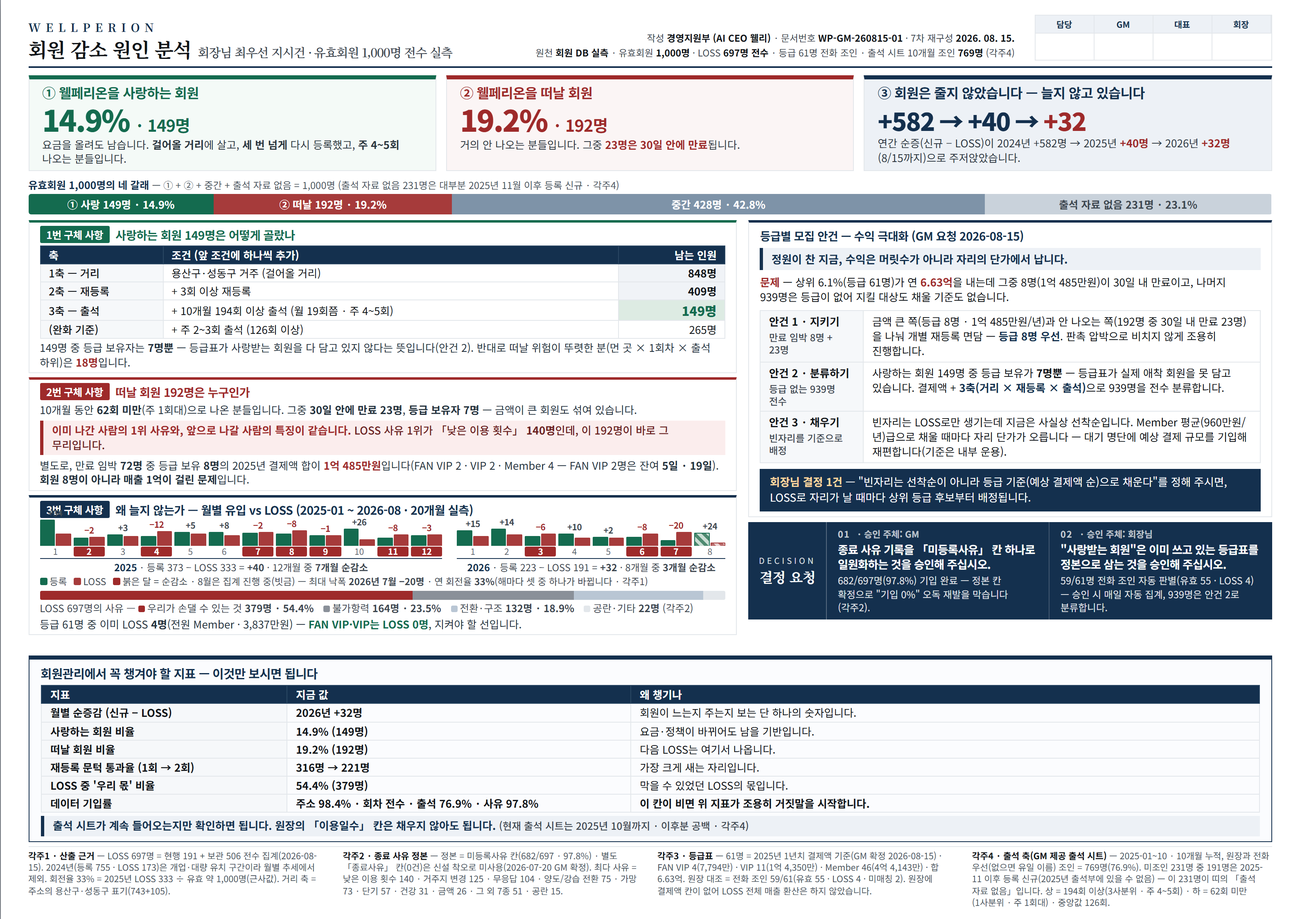
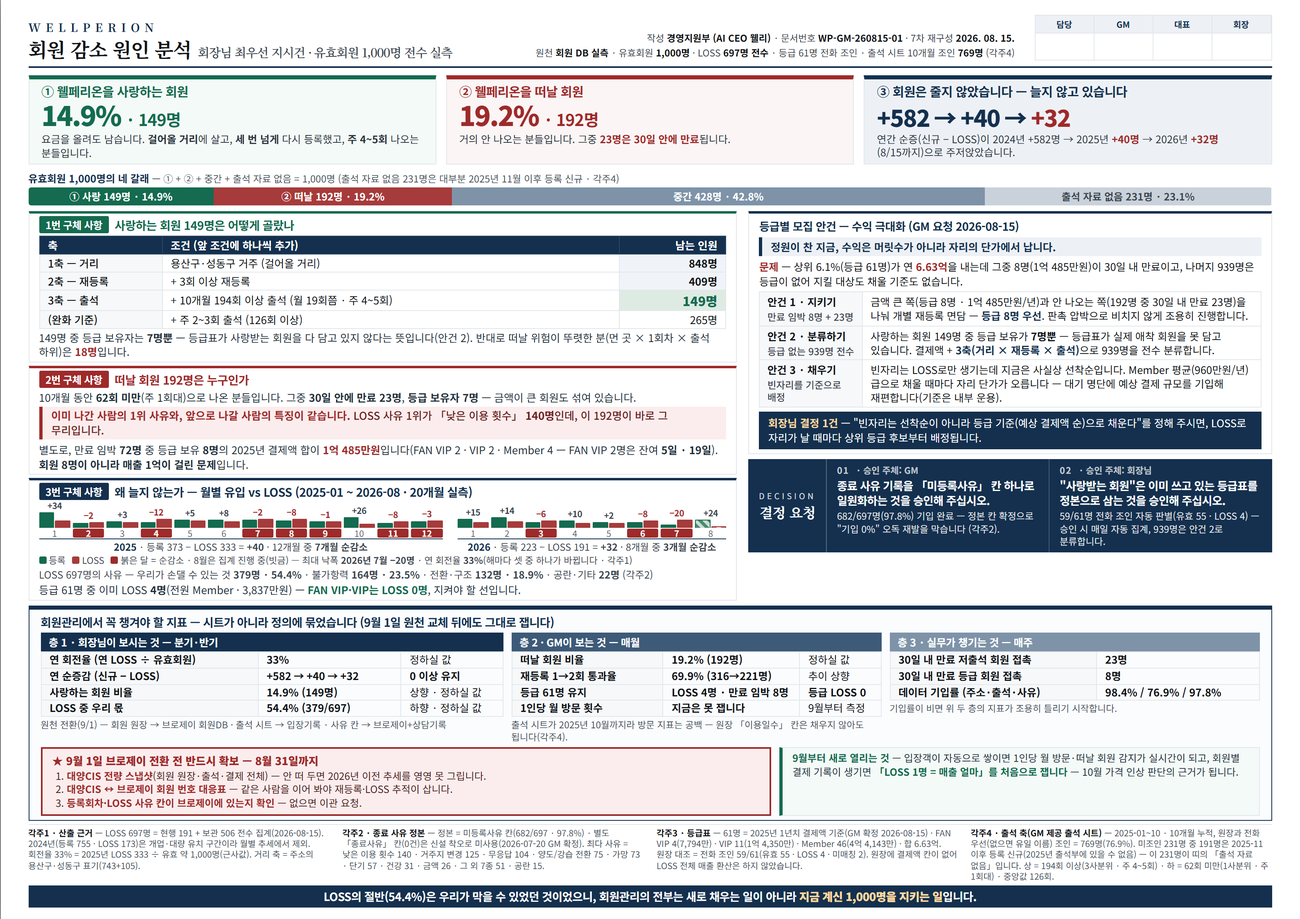
feat(cpo): A3 7차 보강 — 챙길 지표 3층 체계(회장/GM/실무) + 9월 브로제이 전환 대비 확보 3건 (GM 지시 2026-08-15 · 배644)

diff --git a/3. 웰페리온 가이드/reports/260815_회원감소원인분석_A3.html b/3. 웰페리온 가이드/reports/260815_회원감소원인분석_A3.html
@@ -50,21 +50,21 @@
 
   /* 【상단】 핵심 3줄 — 문서에서 가장 크게 */
   .hero{ display:flex; gap:12px; margin-top:9px; }
-  .hc{ flex:1; border:1.5px solid var(--line); border-top:5px solid var(--navy); padding:6px 16px 5px; }
+  .hc{ flex:1; border:1.5px solid var(--line); border-top:5px solid var(--navy); padding:5px 15px 4px; }
   .hc.love{ border-top-color:var(--good); background:#F4FAF7; }
   .hc.leave{ border-top-color:var(--bad); background:#FBF5F5; }
   .hc.flat{ border-top-color:var(--navy); background:var(--navy-bg); }
-  .hc .lb{ font-size:16.5px; font-weight:700; letter-spacing:-.4px; line-height:1.25; }
+  .hc .lb{ font-size:15.5px; font-weight:700; letter-spacing:-.4px; line-height:1.25; }
   .hc.love .lb{ color:var(--good); }
   .hc.leave .lb{ color:var(--bad); }
   .hc.flat .lb{ color:var(--navy); }
-  .hc .big{ font-size:36px; font-weight:900; letter-spacing:-1.5px; line-height:1.08; margin:2px 0 3px;
+  .hc .big{ font-size:33px; font-weight:900; letter-spacing:-1.5px; line-height:1.08; margin:2px 0 3px;
     font-variant-numeric:tabular-nums; }
   .hc.love .big{ color:var(--good); }
   .hc.leave .big{ color:var(--bad); }
-  .hc.flat .big{ color:var(--navy); font-size:30px; letter-spacing:-1px; padding-top:5px; }
+  .hc.flat .big{ color:var(--navy); font-size:28px; letter-spacing:-1px; padding-top:5px; }
   .hc .big small{ font-size:20px; font-weight:700; letter-spacing:-.5px; }
-  .hc .ex{ font-size:13px; line-height:1.38; color:#2A343D; }
+  .hc .ex{ font-size:12.6px; line-height:1.34; color:#2A343D; }
   .hc .ex b{ font-weight:700; }
   .hc.leave .ex b{ color:var(--bad); }
   .hc.flat .ex b{ color:var(--bad); }
@@ -73,9 +73,9 @@
   .band{ margin-top:7px; }
   .band .tt{ font-size:12.5px; font-weight:700; color:var(--navy); margin-bottom:2px; }
   .band .tt span{ font-weight:400; color:#48525B; font-size:11.8px; }
-  .strip{ display:flex; height:25px; border-radius:3px; overflow:hidden; }
+  .strip{ display:flex; height:22px; border-radius:3px; overflow:hidden; }
   .strip i{ display:flex; align-items:center; justify-content:center; height:100%;
-    font-style:normal; font-size:12.8px; font-weight:700; color:#fff; white-space:nowrap; }
+    font-style:normal; font-size:12.3px; font-weight:700; color:#fff; white-space:nowrap; }
   .strip i.s1{ background:var(--good); }
   .strip i.s2{ background:#A63B3B; }
   .strip i.s3{ background:#7E93A8; }
@@ -83,11 +83,11 @@
 
   /* 【중단】 좌우 2단 */
   .body2{ margin-top:7px; display:flex; gap:14px; flex:1; min-height:0; }
-  .colL{ width:57%; flex:none; display:flex; flex-direction:column; gap:5px; }
+  .colL{ width:57%; flex:none; display:flex; flex-direction:column; gap:4px; }
   .colR{ flex:1; display:flex; flex-direction:column; gap:6px; min-width:0; }
 
   /* 구체 사항 박스 */
-  .sec{ border:1px solid var(--line); border-top:3px solid var(--navy); padding:4px 13px 4px; }
+  .sec{ border:1px solid var(--line); border-top:3px solid var(--navy); padding:3px 12px 3px; }
   .sec h3{ font-size:14.3px; font-weight:700; color:var(--navy); letter-spacing:-.3px; margin-bottom:3px; }
   .sec h3 .no{ display:inline-block; background:var(--navy); color:#fff; font-size:12.5px; padding:1px 8px;
     border-radius:2px; margin-right:7px; vertical-align:1px; }
@@ -95,7 +95,7 @@
   .sec.r{ border-top-color:var(--bad); } .sec.r h3{ color:var(--bad); } .sec.r h3 .no{ background:var(--bad); }
   .sec p{ font-size:13px; line-height:1.34; color:#22303B; margin-top:2px; }
   .sec p b{ font-weight:700; }
-  .key{ background:#FBEDED; border-left:4px solid var(--bad); padding:3px 11px; margin-top:4px;
+  .key{ background:#FBEDED; border-left:4px solid var(--bad); padding:2px 11px; margin-top:3px;
     font-size:13.2px; font-weight:700; line-height:1.38; color:var(--bad); }
   .key span{ font-weight:500; color:#6B2020; }
 
@@ -109,10 +109,10 @@
   .xt td.tot{ font-weight:700; background:#F0F3F7; }
 
   /* 월별 그래프 */
-  .chart{ display:flex; gap:18px; margin-top:2px; }
+  .chart{ display:flex; gap:18px; margin-top:0; }
   .yr{ flex:12; }
   .yr.y26{ flex:8; }
-  .yr .bars{ display:flex; align-items:flex-end; gap:3px; height:44px; }
+  .yr .bars{ display:flex; align-items:flex-end; gap:3px; height:43px; }
   .m{ flex:1; display:flex; flex-direction:column; align-items:center; justify-content:flex-end; height:100%; }
   .m b{ font-size:10.5px; font-weight:700; color:#3C464F; margin-bottom:1px; font-variant-numeric:tabular-nums; letter-spacing:-.3px; }
   .m .duo{ display:flex; align-items:flex-end; gap:1px; width:100%; }
@@ -124,36 +124,36 @@
   .m s{ text-decoration:none; font-size:10.5px; color:#5C666F; margin-top:1px; line-height:1.1; }
   .m.neg b{ color:var(--bad); }
   .m.neg s{ background:var(--bad); color:#fff; width:100%; text-align:center; border-radius:2px; font-weight:700; }
-  .legend{ margin-top:2px; font-size:11.5px; color:#3C464F; line-height:1.3; }
+  .legend{ margin-top:1px; font-size:11.2px; color:#3C464F; line-height:1.3; }
   .legend .sw{ display:inline-block; width:9px; height:9px; border-radius:2px; vertical-align:baseline; margin:0 3px 0 8px; }
   .legend .sw:first-child{ margin-left:0; }
   .legend .neg-sw{ background:var(--bad); }
   .yr .cap{ text-align:center; font-size:11.8px; font-weight:700; color:var(--navy); border-top:1.5px solid var(--navy);
-    margin-top:2px; padding-top:1px; }
+    margin-top:1px; padding-top:0; }
   .yr .cap span{ font-weight:400; color:#3C464F; }
 
   /* 사유 구성 스택 */
   .stack{ display:flex; height:11px; border-radius:2px; overflow:hidden; margin-top:4px; }
   .stack i{ display:block; height:100%; }
-  .chips{ font-size:12.3px; line-height:1.4; color:#3C464F; margin-top:2px; }
+  .chips{ font-size:12.2px; line-height:1.36; color:#3C464F; margin-top:2px; }
   .chips b{ font-weight:700; }
   .dot{ display:inline-block; width:8px; height:8px; border-radius:2px; margin:0 3px 0 9px; vertical-align:baseline; }
   .dot:first-child{ margin-left:0; }
   .c-us{ background:var(--bad); } .c-na{ background:#8A9099; } .c-tr{ background:#B9C6D4; } .c-et{ background:#E3E7EB; }
 
   /* 우측 — 안건 */
-  .box{ border:1px solid var(--line); border-top:3px solid var(--navy); padding:6px 13px 6px; }
-  .box h3{ font-size:14px; font-weight:700; color:var(--navy); letter-spacing:-.3px; margin-bottom:5px; }
+  .box{ border:1px solid var(--line); border-top:3px solid var(--navy); padding:5px 12px 5px; }
+  .box h3{ font-size:13.8px; font-weight:700; color:var(--navy); letter-spacing:-.3px; margin-bottom:4px; }
   .agenda .concl{ background:var(--navy-bg); border-left:4px solid var(--navy); color:var(--navy);
-    font-weight:700; font-size:13.5px; padding:4px 10px; margin-bottom:6px; line-height:1.35; }
-  .agenda p.prob{ font-size:13.1px; line-height:1.42; margin-bottom:6px; }
+    font-weight:700; font-size:13px; padding:3px 10px; margin-bottom:4px; line-height:1.35; }
+  .agenda p.prob{ font-size:12.8px; line-height:1.36; margin-bottom:4px; }
   .agenda p.prob b{ color:var(--bad); }
-  table.ag{ width:100%; border-collapse:collapse; table-layout:fixed; margin-bottom:7px; }
-  table.ag th, table.ag td{ border:1px solid var(--line); padding:4px 10px; font-size:13.1px; line-height:1.38; vertical-align:top; }
+  table.ag{ width:100%; border-collapse:collapse; table-layout:fixed; margin-bottom:5px; }
+  table.ag th, table.ag td{ border:1px solid var(--line); padding:3px 9px; font-size:12.8px; line-height:1.34; vertical-align:top; }
   table.ag td.a{ background:#F6F8FA; font-weight:700; }
   table.ag td.a .sub{ display:block; font-weight:500; font-size:11.8px; color:#3C464F; margin-top:2px; line-height:1.3; }
   table.ag .lbl{ font-weight:700; color:var(--navy); }
-  .agenda .decide{ background:var(--navy); color:#fff; font-size:13.3px; line-height:1.42; padding:7px 12px; }
+  .agenda .decide{ background:var(--navy); color:#fff; font-size:12.8px; line-height:1.38; padding:5px 11px; }
   .agenda .decide b{ color:#FFD9A0; }
 
   /* 결정 요청 */
@@ -163,29 +163,45 @@
   .ask .lb span{ font-size:10px; letter-spacing:3px; opacity:.85; }
   .ask .lb strong{ font-family:'Noto Serif KR',serif; font-size:17px; letter-spacing:-.5px; }
   .ask .items{ flex:1; display:flex; }
-  .ask .it{ flex:1; padding:6px 13px; border-right:1px solid rgba(255,255,255,.2); }
+  .ask .it{ flex:1; padding:5px 12px; border-right:1px solid rgba(255,255,255,.2); }
   .ask .it:last-child{ border-right:0; }
   .ask .n{ font-size:11px; font-weight:700; opacity:.75; letter-spacing:1px; }
   .ask .n em{ font-style:normal; opacity:.95; letter-spacing:0; margin-left:8px; }
   .ask .q{ font-size:13.8px; font-weight:700; line-height:1.32; margin-top:2px; letter-spacing:-.4px; }
-  .ask .d{ font-size:11.8px; line-height:1.4; opacity:.88; margin-top:3px; }
+  .ask .d{ font-size:11.5px; line-height:1.36; opacity:.88; margin-top:3px; }
 
   /* 【하단 마무리】 꼭 챙길 지표 */
-  .kpi{ margin-top:7px; border:1.5px solid var(--navy); border-top:5px solid var(--navy); padding:6px 14px 6px; background:#FBFCFE; }
-  .kpi h3{ font-size:15px; font-weight:700; color:var(--navy); letter-spacing:-.4px; margin-bottom:4px; }
+  .kpi{ margin-top:5px; border:1.5px solid var(--navy); border-top:5px solid var(--navy); padding:5px 14px 5px; background:#FBFCFE; }
+  .kpi h3{ font-size:14.2px; font-weight:700; color:var(--navy); letter-spacing:-.4px; margin-bottom:3px; }
   table.kt{ width:100%; border-collapse:collapse; table-layout:fixed; }
-  table.kt th, table.kt td{ border:1px solid var(--line); padding:2px 11px; font-size:13px; line-height:1.32; }
+  table.kt th, table.kt td{ border:1px solid var(--line); padding:1px 10px; font-size:12.8px; line-height:1.3; }
   table.kt thead th{ background:var(--navy); color:#fff; font-weight:700; border-color:#2A4763; text-align:left; }
   table.kt td.k{ background:#F6F8FA; font-weight:700; }
   table.kt td.v{ font-variant-numeric:tabular-nums; font-weight:700; }
   table.kt td.v .est{ font-weight:400; color:#5C666F; font-size:11.8px; }
-  .kpi .last{ margin-top:4px; background:var(--navy-bg); border-left:4px solid var(--navy);
-    padding:3px 11px; font-size:13.3px; font-weight:700; color:var(--navy); line-height:1.38; }
-  .kpi .last span{ font-weight:500; color:#3C464F; font-size:12.3px; }
+  .tiers{ display:flex; gap:10px; }
+  .tier{ flex:1; }
+  .tier.t1{ flex:1.25; }
+  .tier .th{ font-size:12.8px; font-weight:700; color:#fff; padding:2px 10px; letter-spacing:-.2px; }
+  .tier.t1 .th{ background:var(--navy); }
+  .tier.t2 .th{ background:#3D5A78; }
+  .tier.t3 .th{ background:#7E93A8; }
+  .tier .src{ font-size:11.3px; color:#48525B; margin-top:2px; line-height:1.32; }
+  .gbx{ margin-top:5px; display:flex; gap:10px; }
+  .gbx .must{ flex:1.55; border:2px solid var(--bad); background:#FBEDED; padding:4px 12px 5px; }
+  .must .bt{ font-size:13.4px; font-weight:900; color:var(--bad); }
+  .must ol{ margin:1px 0 0 18px; font-size:12.2px; line-height:1.36; color:#4A2020; }
+  .must ol b{ color:var(--bad); }
+  .gbx .open9{ flex:1; border:1px solid var(--line); border-left:4px solid var(--good); background:#F4FAF7;
+    padding:4px 12px; font-size:12.2px; line-height:1.38; color:#22303B; }
+  .open9 b{ color:var(--good); }
+  .closing{ margin-top:4px; background:var(--navy); color:#fff; text-align:center; font-size:13.8px;
+    font-weight:700; padding:4px 10px; letter-spacing:-.3px; line-height:1.4; }
+  .closing b{ color:#FFD9A0; }
 
   /* 각주 */
-  .foot{ margin-top:5px; border-top:1px solid var(--line); padding-top:3px;
-    display:flex; gap:18px; font-size:10.8px; line-height:1.32; color:#48525B; }
+  .foot{ margin-top:4px; border-top:1px solid var(--line); padding-top:3px;
+    display:flex; gap:16px; font-size:10.5px; line-height:1.28; color:#48525B; }
   .foot div{ flex:1; }
   .foot b{ color:var(--ink); }
 </style>
@@ -283,44 +299,37 @@
         <div class="chart">
           <div class="yr">
             <div class="bars">
-              <div class="m"><b>+34</b><span class="duo"><i class="in" style="height:32px"></i><i class="out" style="height:15px"></i></span><s>1</s></div>
-              <div class="m neg"><b>−2</b><span class="duo"><i class="in" style="height:10px"></i><i class="out" style="height:11px"></i></span><s>2</s></div>
-              <div class="m"><b>+3</b><span class="duo"><i class="in" style="height:14px"></i><i class="out" style="height:12px"></i></span><s>3</s></div>
-              <div class="m neg"><b>−12</b><span class="duo"><i class="in" style="height:12px"></i><i class="out" style="height:18px"></i></span><s>4</s></div>
-              <div class="m"><b>+5</b><span class="duo"><i class="in" style="height:17px"></i><i class="out" style="height:15px"></i></span><s>5</s></div>
-              <div class="m"><b>+8</b><span class="duo"><i class="in" style="height:17px"></i><i class="out" style="height:13px"></i></span><s>6</s></div>
-              <div class="m neg"><b>−2</b><span class="duo"><i class="in" style="height:16px"></i><i class="out" style="height:17px"></i></span><s>7</s></div>
-              <div class="m neg"><b>−8</b><span class="duo"><i class="in" style="height:15px"></i><i class="out" style="height:19px"></i></span><s>8</s></div>
-              <div class="m neg"><b>−1</b><span class="duo"><i class="in" style="height:13px"></i><i class="out" style="height:13px"></i></span><s>9</s></div>
-              <div class="m"><b>+26</b><span class="duo"><i class="in" style="height:21px"></i><i class="out" style="height:8px"></i></span><s>10</s></div>
-              <div class="m neg"><b>−8</b><span class="duo"><i class="in" style="height:10px"></i><i class="out" style="height:14px"></i></span><s>11</s></div>
-              <div class="m neg"><b>−3</b><span class="duo"><i class="in" style="height:13px"></i><i class="out" style="height:14px"></i></span><s>12</s></div>
+              <div class="m"><b>+34</b><span class="duo"><i class="in" style="height:19px"></i><i class="out" style="height:9px"></i></span><s>1</s></div>
+              <div class="m neg"><b>−2</b><span class="duo"><i class="in" style="height:6px"></i><i class="out" style="height:7px"></i></span><s>2</s></div>
+              <div class="m"><b>+3</b><span class="duo"><i class="in" style="height:8px"></i><i class="out" style="height:7px"></i></span><s>3</s></div>
+              <div class="m neg"><b>−12</b><span class="duo"><i class="in" style="height:7px"></i><i class="out" style="height:11px"></i></span><s>4</s></div>
+              <div class="m"><b>+5</b><span class="duo"><i class="in" style="height:10px"></i><i class="out" style="height:9px"></i></span><s>5</s></div>
+              <div class="m"><b>+8</b><span class="duo"><i class="in" style="height:10px"></i><i class="out" style="height:8px"></i></span><s>6</s></div>
+              <div class="m neg"><b>−2</b><span class="duo"><i class="in" style="height:10px"></i><i class="out" style="height:11px"></i></span><s>7</s></div>
+              <div class="m neg"><b>−8</b><span class="duo"><i class="in" style="height:9px"></i><i class="out" style="height:11px"></i></span><s>8</s></div>
+              <div class="m neg"><b>−1</b><span class="duo"><i class="in" style="height:8px"></i><i class="out" style="height:8px"></i></span><s>9</s></div>
+              <div class="m"><b>+26</b><span class="duo"><i class="in" style="height:13px"></i><i class="out" style="height:5px"></i></span><s>10</s></div>
+              <div class="m neg"><b>−8</b><span class="duo"><i class="in" style="height:6px"></i><i class="out" style="height:8px"></i></span><s>11</s></div>
+              <div class="m neg"><b>−3</b><span class="duo"><i class="in" style="height:8px"></i><i class="out" style="height:9px"></i></span><s>12</s></div>
             </div>
             <div class="cap">2025 <span>· 등록 373 − LOSS 333 = <b>+40</b> · 12개월 중 <b>7개월 순감소</b></span></div>
           </div>
           <div class="yr y26">
             <div class="bars">
-              <div class="m"><b>+15</b><span class="duo"><i class="in" style="height:19px"></i><i class="out" style="height:12px"></i></span><s>1</s></div>
-              <div class="m"><b>+14</b><span class="duo"><i class="in" style="height:21px"></i><i class="out" style="height:14px"></i></span><s>2</s></div>
-              <div class="m neg"><b>−6</b><span class="duo"><i class="in" style="height:12px"></i><i class="out" style="height:15px"></i></span><s>3</s></div>
-              <div class="m"><b>+10</b><span class="duo"><i class="in" style="height:15px"></i><i class="out" style="height:10px"></i></span><s>4</s></div>
-              <div class="m"><b>+2</b><span class="duo"><i class="in" style="height:11px"></i><i class="out" style="height:10px"></i></span><s>5</s></div>
-              <div class="m neg"><b>−8</b><span class="duo"><i class="in" style="height:11px"></i><i class="out" style="height:15px"></i></span><s>6</s></div>
-              <div class="m neg"><b>−20</b><span class="duo"><i class="in" style="height:7px"></i><i class="out" style="height:17px"></i></span><s>7</s></div>
-              <div class="m part"><b>+24</b><span class="duo"><i class="in" style="height:16px"></i><i class="out" style="height:4px"></i></span><s>8</s></div>
+              <div class="m"><b>+15</b><span class="duo"><i class="in" style="height:11px"></i><i class="out" style="height:7px"></i></span><s>1</s></div>
+              <div class="m"><b>+14</b><span class="duo"><i class="in" style="height:13px"></i><i class="out" style="height:8px"></i></span><s>2</s></div>
+              <div class="m neg"><b>−6</b><span class="duo"><i class="in" style="height:7px"></i><i class="out" style="height:9px"></i></span><s>3</s></div>
+              <div class="m"><b>+10</b><span class="duo"><i class="in" style="height:9px"></i><i class="out" style="height:6px"></i></span><s>4</s></div>
+              <div class="m"><b>+2</b><span class="duo"><i class="in" style="height:7px"></i><i class="out" style="height:6px"></i></span><s>5</s></div>
+              <div class="m neg"><b>−8</b><span class="duo"><i class="in" style="height:7px"></i><i class="out" style="height:9px"></i></span><s>6</s></div>
+              <div class="m neg"><b>−20</b><span class="duo"><i class="in" style="height:4px"></i><i class="out" style="height:10px"></i></span><s>7</s></div>
+              <div class="m part"><b>+24</b><span class="duo"><i class="in" style="height:10px"></i><i class="out" style="height:2px"></i></span><s>8</s></div>
             </div>
             <div class="cap">2026 <span>· 등록 223 − LOSS 191 = <b>+32</b> · 8개월 중 <b>3개월 순감소</b></span></div>
           </div>
         </div>
         <div class="legend"><span class="sw" style="background:var(--good)"></span>등록<span class="sw" style="background:#A63B3B"></span>LOSS<span class="sw neg-sw"></span>붉은 달 = 순감소 · 8월은 집계 진행 중(빗금) — 최대 낙폭 <b>2026년 7월 −20명</b> · 연 회전율 <b>33%</b>(해마다 셋 중 하나가 바뀝니다 · 각주1)</div>
-        <div class="stack">
-          <i class="c-us" style="width:54.4%"></i><i class="c-na" style="width:23.5%"></i><i class="c-tr" style="width:18.9%"></i><i class="c-et" style="width:3.2%"></i>
-        </div>
-        <div class="chips">LOSS 697명의 사유 —
-          <span class="dot c-us"></span>우리가 손댈 수 있는 것 <b>379명 · 54.4%</b>
-          <span class="dot c-na"></span>불가항력 <b>164명 · 23.5%</b>
-          <span class="dot c-tr"></span>전환·구조 <b>132명 · 18.9%</b>
-          <span class="dot c-et"></span>공란·기타 <b>22명</b> (각주2)</div>
+        <div class="chips" style="margin-top:2px">LOSS 697명의 사유 — 우리가 손댈 수 있는 것 <b>379명 · 54.4%</b> · 불가항력 <b>164명 · 23.5%</b> · 전환·구조 <b>132명 · 18.9%</b> · 공란·기타 <b>22명</b> (각주2)</div>
         <p style="margin-top:2px">등급 61명 중 이미 LOSS <b>4명</b>(전원 Member · 3,837만원) — <b style="color:var(--good)">FAN VIP·VIP는 LOSS 0명</b>, 지켜야 할 선입니다.</p>
       </div>
 
@@ -372,23 +381,60 @@
     </div>
   </div>
 
-  <!-- 【하단 마무리】 회원관리에서 꼭 챙겨야 할 지표 -->
+  <!-- 【하단 마무리】 회원관리에서 꼭 챙겨야 할 지표 — 3층 체계 -->
   <div class="kpi">
-    <h3>회원관리에서 꼭 챙겨야 할 지표 — 이것만 보시면 됩니다</h3>
-    <table class="kt">
-      <colgroup><col style="width:300px"><col style="width:420px"><col></colgroup>
-      <thead><tr><th>지표</th><th>지금 값</th><th>왜 챙기나</th></tr></thead>
-      <tbody>
-        <tr><td class="k">월별 순증감 (신규 − LOSS)</td><td class="v">2026년 +32명</td><td>회원이 느는지 주는지 보는 단 하나의 숫자입니다.</td></tr>
-        <tr><td class="k">사랑하는 회원 비율</td><td class="v">14.9% (149명)</td><td>요금·정책이 바뀌어도 남을 기반입니다.</td></tr>
-        <tr><td class="k">떠날 회원 비율</td><td class="v">19.2% (192명)</td><td>다음 LOSS는 여기서 나옵니다.</td></tr>
-        <tr><td class="k">재등록 문턱 통과율 (1회 → 2회)</td><td class="v">316명 → 221명</td><td>가장 크게 새는 자리입니다.</td></tr>
-        <tr><td class="k">LOSS 중 '우리 몫' 비율</td><td class="v">54.4% (379명)</td><td>막을 수 있었던 LOSS의 몫입니다.</td></tr>
-        <tr><td class="k">데이터 기입률</td><td class="v">주소 98.4% · 회차 전수 · 출석 76.9% · 사유 97.8%</td><td><b>이 칸이 비면 위 지표가 조용히 거짓말을 시작합니다.</b></td></tr>
-      </tbody>
-    </table>
-    <div class="last">출석 시트가 계속 들어오는지만 확인하면 됩니다. 원장의 「이용일수」 칸은 채우지 않아도 됩니다.
-      <span>(현재 출석 시트는 2025년 10월까지 · 이후분 공백 · 각주4)</span></div>
+    <h3>회원관리에서 꼭 챙겨야 할 지표 — 시트가 아니라 정의에 묶었습니다 (9월 1일 원천 교체 뒤에도 그대로 잽니다)</h3>
+    <div class="tiers">
+      <div class="tier t1">
+        <div class="th">층 1 · 회장님이 보시는 것 — 분기·반기</div>
+        <table class="kt">
+          <colgroup><col style="width:47%"><col style="width:31%"><col></colgroup>
+          <tbody>
+            <tr><td class="k">연 회전율 (연 LOSS ÷ 유효회원)</td><td class="v">33%</td><td>정하실 값</td></tr>
+            <tr><td class="k">연 순증감 (신규 − LOSS)</td><td class="v">+582 → +40 → +32</td><td><b>0 이상 유지</b></td></tr>
+            <tr><td class="k">사랑하는 회원 비율</td><td class="v">14.9% (149명)</td><td>상향 · 정하실 값</td></tr>
+            <tr><td class="k">LOSS 중 우리 몫</td><td class="v">54.4% (379/697)</td><td>하향 · 정하실 값</td></tr>
+          </tbody>
+        </table>
+        <div class="src">원천 전환(9/1) — 회원 원장 → 브로제이 회원DB · 출석 시트 → 입장기록 · 사유 칸 → 브로제이+상담기록</div>
+      </div>
+      <div class="tier t2">
+        <div class="th">층 2 · GM이 보는 것 — 매월</div>
+        <table class="kt">
+          <colgroup><col style="width:41%"><col style="width:37%"><col></colgroup>
+          <tbody>
+            <tr><td class="k">떠날 회원 비율</td><td class="v">19.2% (192명)</td><td>정하실 값</td></tr>
+            <tr><td class="k">재등록 1→2회 통과율</td><td class="v">69.9% (316→221명)</td><td>추이 상향</td></tr>
+            <tr><td class="k">등급 61명 유지</td><td class="v">LOSS 4명 · 만료 임박 8명</td><td><b>등급 LOSS 0</b></td></tr>
+            <tr><td class="k">1인당 월 방문 횟수</td><td class="v">지금은 못 잽니다</td><td>9월부터 측정</td></tr>
+          </tbody>
+        </table>
+        <div class="src">출석 시트가 2025년 10월까지라 방문 지표는 공백 — 원장 「이용일수」 칸은 채우지 않아도 됩니다(각주4).</div>
+      </div>
+      <div class="tier t3">
+        <div class="th">층 3 · 실무가 챙기는 것 — 매주</div>
+        <table class="kt">
+          <colgroup><col style="width:56%"><col></colgroup>
+          <tbody>
+            <tr><td class="k">30일 내 만료 저출석 회원 접촉</td><td class="v">23명</td></tr>
+            <tr><td class="k">30일 내 만료 등급 회원 접촉</td><td class="v">8명</td></tr>
+            <tr><td class="k">데이터 기입률 (주소·출석·사유)</td><td class="v">98.4% / 76.9% / 97.8%</td></tr>
+          </tbody>
+        </table>
+        <div class="src">기입률이 비면 위 두 층의 지표가 조용히 틀리기 시작합니다.</div>
+      </div>
+    </div>
+    <div class="gbx">
+      <div class="must">
+        <div class="bt">★ 9월 1일 브로제이 전환 전 반드시 확보 — 8월 31일까지</div>
+        <ol>
+          <li><b>대양CIS 전량 스냅샷</b>(회원 원장·출석·결제 전체) — 안 떠 두면 2026년 이전 추세를 영영 못 그립니다.</li>
+          <li><b>대양CIS ↔ 브로제이 회원 번호 대응표</b> — 같은 사람을 이어 봐야 재등록·LOSS 추적이 삽니다.</li>
+          <li><b>등록회차·LOSS 사유 칸이 브로제이에 있는지 확인</b> — 없으면 이관 요청.</li>
+        </ol>
+      </div>
+      <div class="open9"><b>9월부터 새로 열리는 것</b> — 입장객이 자동으로 쌓이면 1인당 월 방문·떠날 회원 감지가 실시간이 되고, 회원별 결제 기록이 생기면 <b>「LOSS 1명 = 매출 얼마」를 처음으로 잽니다</b> — 10월 가격 인상 판단의 근거가 됩니다.</div>
+    </div>
   </div>
 
   <!-- 각주 -->
@@ -398,6 +444,9 @@
     <div><b>각주3 · 등급표</b> — 61명 = 2025년 1년치 결제액 기준(GM 확정 2026-08-15) · FAN VIP 4(7,794만) · VIP 11(1억 4,350만) · Member 46(4억 4,143만) · 합 6.63억. 원장 대조 = 전화 조인 59/61(유효 55 · LOSS 4 · 미매칭 2). 원장에 결제액 칸이 없어 LOSS 전체 매출 환산은 하지 않았습니다.</div>
     <div><b>각주4 · 출석 축(GM 제공 출석 시트)</b> — 2025-01~10 · 10개월 누적, 원장과 전화 우선(없으면 유일 이름) 조인 = 769명(76.9%). 미조인 231명 중 191명은 2025-11 이후 등록 신규(2025년 출석부에 있을 수 없음) — 이 231명이 띠의 「출석 자료 없음」입니다. 상 = 194회 이상(3사분위 · 주 4~5회) · 하 = 62회 미만(1사분위 · 주 1회대) · 중앙값 126회.</div>
   </div>
+
+  <!-- 맺음 -->
+  <div class="closing">LOSS의 절반(54.4%)은 우리가 막을 수 있었던 것이었으니, 회원관리의 전부는 새로 채우는 일이 아니라 <b>지금 계신 1,000명을 지키는 일</b>입니다.</div>
 
 </div>
 
